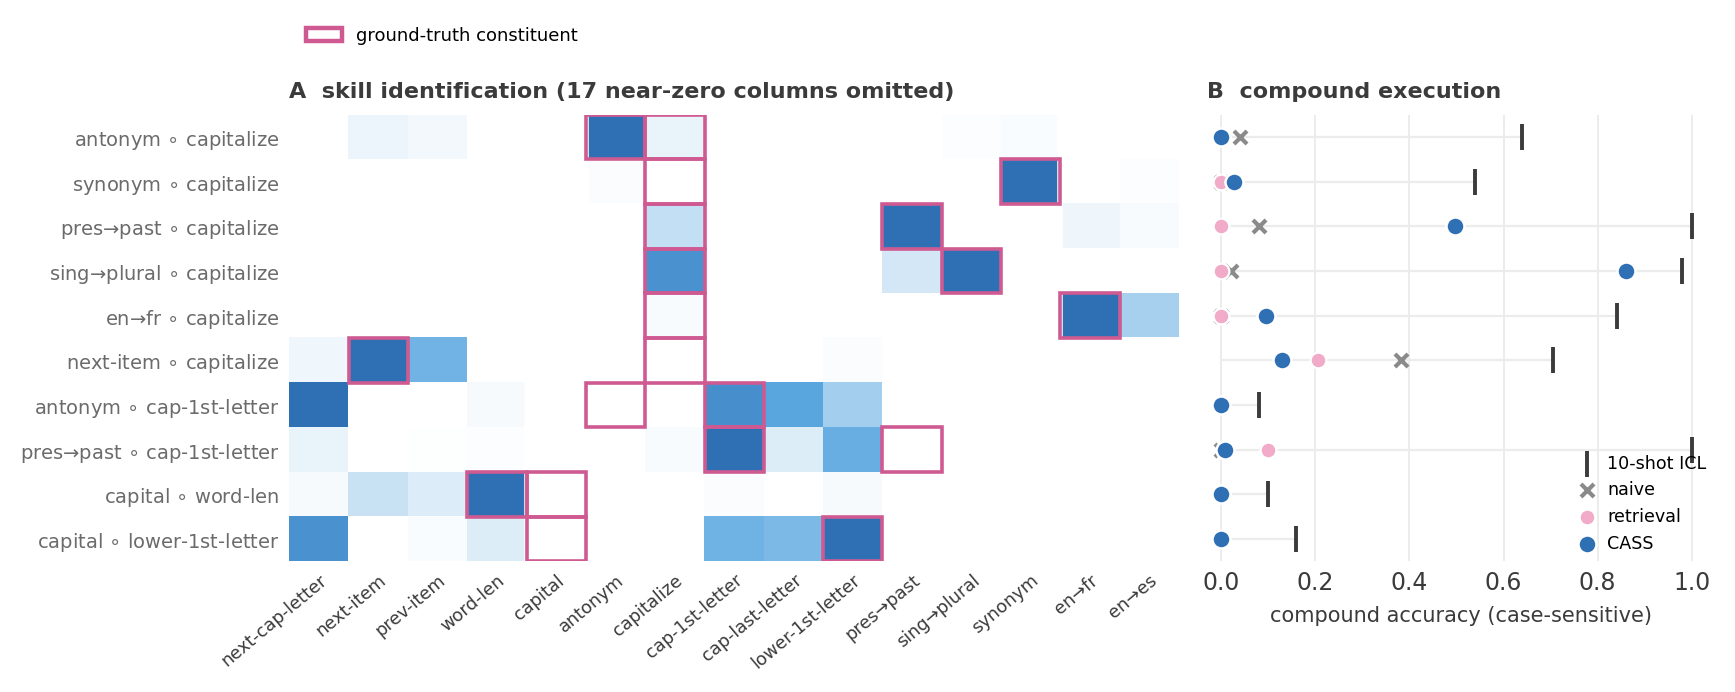
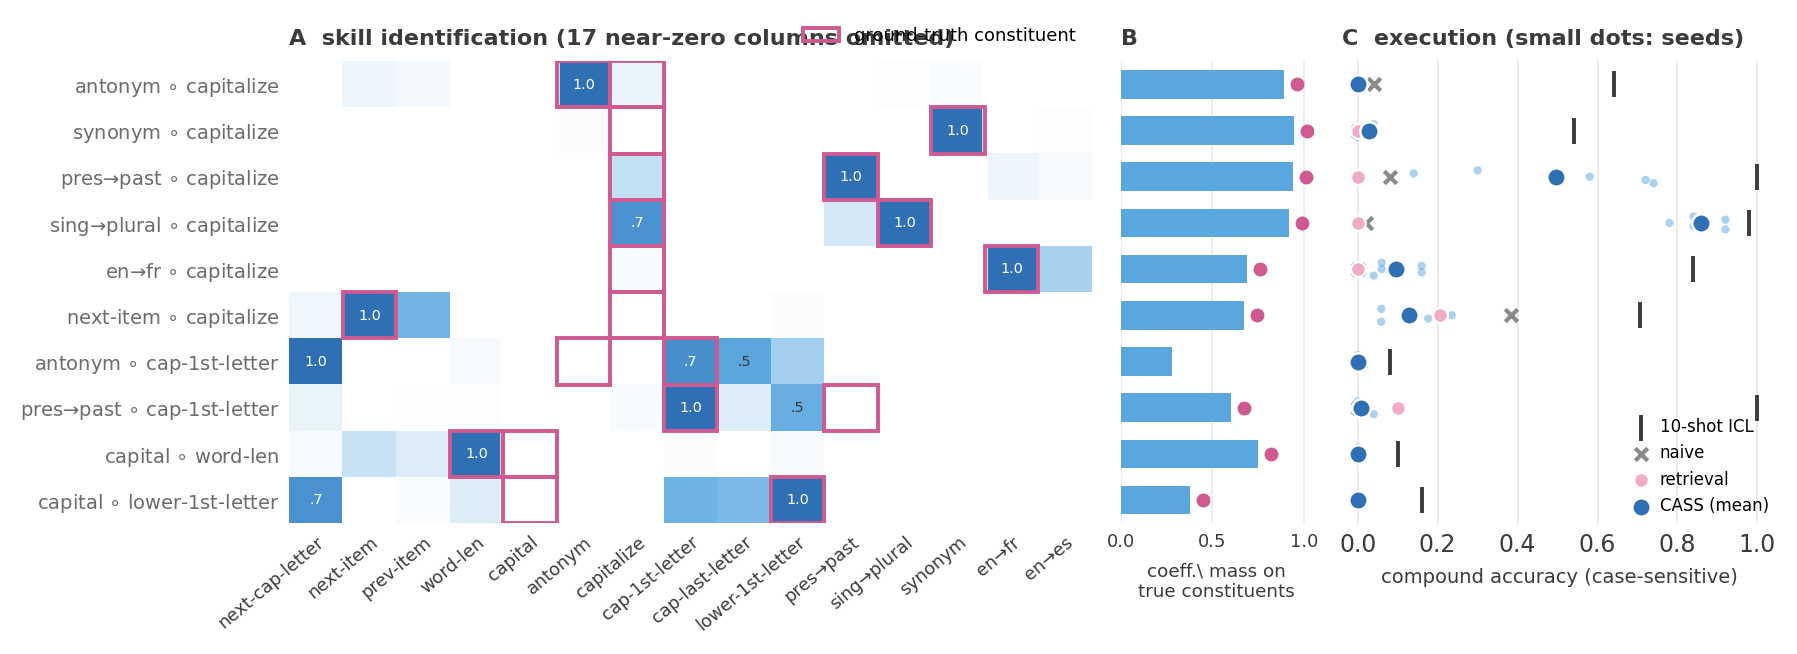
Tables/figures v6: full-width Table 1 (12 cols incl. adapt cost + capabilities), aligned two-column ablation grid (36 settings), E1 dumbbell+CI+forest composite, E2 heatmap+identification+per-seed execution

diff --git a/scripts/14_paper_figures.py b/scripts/14_paper_figures.py
@@ -89,18 +89,18 @@ def save(name):
     plt.close()
 
 
-# ---------------- Fig E1: composite (bullet + k-trend + family) ---------
+# ------------- Fig E1: dumbbell + k-trend + cross-model forest -------------
 R = pd.read_csv(out / "e1_summary.csv")
 R4 = R[R["k"] == 4].sort_values(["family", "task"]).reset_index(drop=True)
 e1 = pd.read_csv(out / "e1_loto.csv")
 bl = json.load(open(out / "baselines.json"))
 
-fig = plt.figure(figsize=(9.6, 3.7))
-gs = fig.add_gridspec(2, 2, width_ratios=[2.05, 1], hspace=0.52, wspace=0.2)
+fig = plt.figure(figsize=(9.6, 4.1))
+gs = fig.add_gridspec(2, 2, width_ratios=[2.1, 1], hspace=0.62, wspace=0.2)
 axA1 = fig.add_subplot(gs[0, 0])
 axA2 = fig.add_subplot(gs[1, 0])
 axB = fig.add_subplot(gs[0, 1])
-axC = fig.add_subplot(gs[1, 1])
+axD = fig.add_subplot(gs[1, 1])
 
 half = int(np.ceil(len(R4) / 2))
 for ax, chunk in zip([axA1, axA2], [R4.iloc[:half], R4.iloc[half:]]):
@@ -111,83 +111,92 @@ for ax, chunk in zip([axA1, axA2], [R4.iloc[:half], R4.iloc[half:]]):
     for i, f in enumerate(list(chunk["family"]) + [None]):
         if f != prev:
             if prev is not None:
-                ax.text((start + i - 1) / 2, 1.2, prev, ha="center",
+                ax.text((start + i - 1) / 2, 1.19, prev, ha="center",
                         va="top", fontsize=6.8, color=MUTED, style="italic")
                 if f is not None:
-                    ax.axvline(i - 0.5, color="#dddddd", lw=0.8, zorder=0)
+                    ax.axvline(i - 0.5, color="#e3e3e3", lw=0.8, zorder=0)
             prev, start = f, i
     for i, row in chunk.iterrows():
-        ax.bar(i, row["acc_oracle"], width=0.72, color=PINK, alpha=0.55,
-               edgecolor="none", zorder=1)
-        rounded_bar(ax, i, row["acc_syn"], 0.42, BLUE)
-        ax.plot([i - 0.4, i + 0.4], [row["acc_icl"]] * 2, color=INK,
-                lw=1.0, zorder=4)
+        lo, hi = sorted([row["acc_syn"], row["acc_oracle"]])
+        ax.plot([i, i], [lo, hi], color="#c4d8ea", lw=2.2, zorder=2,
+                solid_capstyle="round")
+        ax.plot(i, row["acc_oracle"], "o", color=PINK, markersize=6,
+                markeredgecolor="white", markeredgewidth=1.1, zorder=3)
+        ax.plot(i, row["acc_syn"], "o", color=DBLUE, markersize=6,
+                markeredgecolor="white", markeredgewidth=1.1, zorder=4)
+        ax.plot([i - 0.33, i + 0.33], [row["acc_icl"]] * 2, color=INK,
+                lw=1.0, zorder=3)
     ax.set_xticks(x)
     ax.set_xticklabels([short(t) for t in chunk["task"]], rotation=40,
                        fontsize=6.2, ha="right", rotation_mode="anchor")
-    ax.set_ylim(0, 1.2)
+    ax.set_ylim(-0.04, 1.2)
     ax.set_xlim(-0.7, half - 0.3)
     ax.set_yticks([0, 0.5, 1.0])
     ax.set_ylabel("accuracy", fontsize=7.5)
 handles = [
-    Rectangle((0, 0), 1, 1, fc=BLUE, ec="none"),
-    Rectangle((0, 0), 1, 1, fc=PINK, alpha=0.55, ec="none"),
+    Line2D([0], [0], marker="o", color=DBLUE, lw=0, markersize=6,
+           markeredgecolor="white"),
+    Line2D([0], [0], marker="o", color=PINK, lw=0, markersize=6,
+           markeredgecolor="white"),
     Line2D([0], [0], color=INK, lw=1.0),
 ]
 axA1.legend(handles, ["CASS (k=4)", "oracle", "10-shot ICL"],
-            ncol=3, loc="lower left", bbox_to_anchor=(0.42, 1.16),
+            ncol=3, loc="lower left", bbox_to_anchor=(0.47, 1.13),
             fontsize=7, handlelength=1.2, columnspacing=1.0)
 axA1.set_title("A  per-task accuracy", fontsize=8, loc="left",
-               color=INK, fontweight="bold", pad=16)
+               color=INK, fontweight="bold", pad=15)
 
-# panel B: median rho vs k for cass / zvec / recon
-def rho_by(mode, seeds):
+# B: median rho vs k with bootstrap CI band for CASS
+def rho_tasks(mode, k, seeds=3):
     orc = e1[e1["mode"] == "oracle"].set_index("task")["acc"]
-    sub = e1[(e1["mode"] == mode) & (e1["seed"] < seeds)]
-    med = {}
-    for k, grp in sub.groupby("k"):
-        acc = grp.groupby("task")["acc"].mean()
-        rhos = []
-        for t, a in acc.items():
-            zs = bl[t]["zs"]
-            if orc.get(t, 0) - zs > 0.05:
-                rhos.append((a - zs) / (orc[t] - zs))
-        med[k] = np.median(rhos)
-    return med
+    acc = e1[(e1["mode"] == mode) & (e1["seed"] < seeds) &
+             (e1["k"] == k)].groupby("task")["acc"].mean()
+    return np.array([(acc[t] - bl[t]["zs"]) / (orc[t] - bl[t]["zs"])
+                     for t in acc.index
+                     if orc.get(t, 0) - bl[t]["zs"] > 0.05])
 
+rngb = np.random.default_rng(0)
 for mode, col, lab in [("cass", DBLUE, "CASS"), ("zvec", MUTED, "$z$ only"),
                        ("cass_recon", DPINK, "reconstruction")]:
-    m = rho_by(mode, 3)
-    ks = sorted(m)
-    axB.plot(ks, [m[k] for k in ks], color=col, lw=2, marker="o",
-             markersize=5, markeredgecolor="white", markeredgewidth=1.1,
-             label=lab, solid_capstyle="round")
+    ks, med, lo, hi = [], [], [], []
+    for k in [1, 2, 4]:
+        r = rho_tasks(mode, k)
+        boots = [np.median(rngb.choice(r, len(r), True)) for _ in range(2000)]
+        ks.append(k); med.append(np.median(r))
+        lo.append(np.percentile(boots, 2.5)); hi.append(np.percentile(boots, 97.5))
+    if mode == "cass":
+        axB.fill_between(ks, lo, hi, color=BLUE, alpha=0.15, lw=0)
+    axB.plot(ks, med, color=col, lw=2, marker="o", markersize=5,
+             markeredgecolor="white", markeredgewidth=1.1, label=lab,
+             solid_capstyle="round")
 axB.grid(axis="y", zorder=0)
 axB.set_xticks([1, 2, 4])
 axB.set_xlabel("examples $k$", fontsize=7.5)
 axB.set_ylabel(r"median $\rho$", fontsize=7.5)
 axB.legend(fontsize=6.5, loc="center right", handlelength=1.4)
-axB.set_title("B  recovery vs. $k$", fontsize=8, loc="left", color=INK,
-              fontweight="bold")
+axB.set_title("B  recovery vs. $k$ (band: 95% CI)", fontsize=8, loc="left",
+              color=INK, fontweight="bold")
 
-# panel C: rho by family at k=4 (dot strip + median tick)
-fams = sorted(R4["family"].unique())
-rngj = np.random.default_rng(1)
-Rv = R4.dropna(subset=["rho"])
-for fi, f in enumerate(fams):
-    v = Rv[Rv["family"] == f]["rho"].clip(0, 1.6)
-    axC.scatter(v, fi + rngj.uniform(-0.08, 0.08, len(v)), s=16, color=BLUE,
-                alpha=0.75, edgecolor="white", linewidth=0.7, zorder=2)
-    axC.plot([v.median()] * 2, [fi - 0.26, fi + 0.26], color=DPINK, lw=2.2,
-             zorder=3, solid_capstyle="round")
-axC.axvline(1.0, color="#cccccc", lw=0.8, ls=(0, (3, 3)), zorder=1)
-axC.text(1.0, -0.72, "oracle", fontsize=6, color=MUTED, ha="center")
-axC.set_yticks(range(len(fams)))
-axC.set_yticklabels(fams, fontsize=7)
-axC.set_xlabel(r"oracle recovery $\rho$  ($k{=}4$)", fontsize=7.5)
-axC.grid(axis="x", zorder=0)
-axC.set_title("C  recovery by family", fontsize=8, loc="left", color=INK,
-              fontweight="bold")
+# D: forest plot of dictionary gain across models
+models = [("Llama-3.1-8B", 4.9, 1.4, 8.6), ("Llama-3.2-3B", 6.0, 2.9, 9.5),
+          ("Gemma-2-2B", 4.2, 2.0, 6.7), ("Qwen2.5-3B", 1.4, 0.2, 2.8)]
+for yi, (name, mgain, lo, hi) in enumerate(models):
+    axD.plot([lo, hi], [yi, yi], color=BLUE, lw=2.2, zorder=2,
+             solid_capstyle="round")
+    axD.plot(mgain, yi, "D", color=DBLUE, markersize=6.5,
+             markeredgecolor="white", markeredgewidth=1.1, zorder=3)
+    axD.text(hi + 0.35, yi, f"+{mgain:.1f}", fontsize=7, color=DBLUE,
+             va="center")
+axD.axvline(0, color=DPINK, lw=1.1, ls=(0, (4, 3)), zorder=1)
+axD.set_yticks(range(len(models)))
+axD.set_yticklabels([m[0] for m in models], fontsize=7)
+axD.set_xlabel("dictionary gain over $z$-only (acc. pts, 95% CI)",
+               fontsize=7.5)
+axD.set_xlim(-1.2, 11.5)
+axD.invert_yaxis()
+axD.grid(axis="x", zorder=0)
+axD.set_title("C  dictionary gain across models", fontsize=8, loc="left",
+              color=INK, fontweight="bold")
 save("e1_main")
 
 # ---------------- Fig E5: scale curve ----------------
@@ -248,7 +257,7 @@ ax.set_xlabel(r"coding residual $\varepsilon$ (terciles)")
 ax.set_xlim(-0.5, 2.75)
 save("e1_eps_vs_rho")
 
-# ---------------- Fig E2: heatmap + execution panel ----------------
+# -------- Fig E2: heatmap + identification quality + execution ----------
 cm = json.load(open(out / "e2_coeff_matrix.json"))
 compounds = list(cm)
 tasks_all = sorted(ALL_TASKS, key=lambda t: (TASK_REGISTRY[t][1], t))
@@ -267,10 +276,11 @@ agg = e2.groupby("compound").agg(cass=("acc_cass", "mean"),
                                  naive=("acc_naive", "mean"),
                                  icl=("acc_icl", "first"))
 
-fig = plt.figure(figsize=(9.2, 2.9))
-gs = fig.add_gridspec(1, 2, width_ratios=[1.75, 1], wspace=0.04)
+fig = plt.figure(figsize=(9.6, 3.0))
+gs = fig.add_gridspec(1, 3, width_ratios=[1.75, 0.42, 0.95], wspace=0.06)
 axH = fig.add_subplot(gs[0])
-axE = fig.add_subplot(gs[1], sharey=axH)
+axI = fig.add_subplot(gs[1], sharey=axH)
+axE = fig.add_subplot(gs[2], sharey=axH)
 
 axH.imshow(Mx, cmap=SEQ, aspect="auto", vmin=0, vmax=1)
 for i, c in enumerate(compounds):
@@ -278,7 +288,12 @@ for i, c in enumerate(compounds):
         if comp in tasks:
             j = tasks.index(comp)
             axH.add_patch(Rectangle((j - 0.5, i - 0.5), 1, 1, fill=False,
-                                    edgecolor=DPINK, lw=1.3, zorder=4))
+                                    edgecolor=DPINK, lw=1.4, zorder=4))
+    for j in range(len(tasks)):
+        if Mx[i, j] >= 0.45:
+            axH.text(j, i, f"{Mx[i, j]:.1f}".lstrip("0"), ha="center",
+                     va="center", fontsize=5.2,
+                     color="white" if Mx[i, j] > 0.65 else INK)
 axH.set_xticks(range(len(tasks)))
 axH.set_xticklabels([short(t) for t in tasks], rotation=40, fontsize=6.4,
                     ha="right", rotation_mode="anchor")
@@ -291,35 +306,55 @@ for j, t in enumerate(tasks):
     if f != prev and prev is not None:
         axH.axvline(j - 0.5, color="white", lw=2)
     prev = f
-axH.set_title(f"A  skill identification ({n_dropped} near-zero columns omitted)", fontsize=8, loc="left", color=INK,
+axH.set_title(f"A  skill identification ({n_dropped} near-zero columns "
+              "omitted)", fontsize=8, loc="left", color=INK,
               fontweight="bold")
+handles = [Rectangle((0, 0), 1, 1, fill=False, edgecolor=DPINK, lw=1.4)]
+axH.legend(handles, ["ground-truth constituent"], loc="lower right",
+           bbox_to_anchor=(1.0, 1.0), fontsize=6.5)
 
-# execution panel: per-compound accuracy, shared rows
+# B: identification quality = coefficient mass on true constituents
 y = np.arange(len(compounds))
+mass = []
+for c in compounds:
+    comps = compound_components(c)
+    tot = sum(cm[c].values()) + 1e-12
+    mass.append(sum(cm[c].get(x, 0) for x in comps) / tot)
+top1 = [max(cm[c], key=cm[c].get) in compound_components(c)
+        for c in compounds]
+axI.barh(y, mass, height=0.62, color=BLUE, edgecolor="none", zorder=2)
+for yi, (m, t1) in enumerate(zip(mass, top1)):
+    if t1:
+        axI.plot(m + 0.07, yi, "o", color=DPINK, markersize=4, zorder=3)
+axI.set_xlim(0, 1.05)
+axI.set_xticks([0, 0.5, 1])
+axI.tick_params(labelleft=False, labelsize=6.5)
+axI.grid(axis="x", zorder=0)
+axI.set_xlabel("coeff.\ mass on\ntrue constituents", fontsize=6.6)
+axI.set_title("B", fontsize=8, loc="left", color=INK, fontweight="bold")
+
+# C: execution with per-seed distribution
 for i, c in enumerate(compounds):
-    a = agg.loc[c]
-    axE.plot([0, max(a["icl"], a["cass"], a["retr"], a["naive"])],
-             [i, i], color=GRID, lw=0.8, zorder=1)
+    seeds = e2[e2["compound"] == c]["acc_cass"].values
+    axE.scatter(seeds, np.full(len(seeds), i) +
+                np.linspace(-0.14, 0.14, len(seeds)), s=9, color=BLUE,
+                alpha=0.5, edgecolor="none", zorder=2)
 axE.scatter(agg.loc[compounds, "icl"], y, marker="|", s=90, color=INK,
             lw=1.4, label="10-shot ICL", zorder=3)
-axE.scatter(agg.loc[compounds, "naive"], y, marker="x", s=22, color=MUTED,
+axE.scatter(agg.loc[compounds, "naive"], y, marker="x", s=20, color=MUTED,
             label="naive", zorder=3)
-axE.scatter(agg.loc[compounds, "retr"], y, s=32, color=PINK,
+axE.scatter(agg.loc[compounds, "retr"], y, s=28, color=PINK,
             edgecolor="white", linewidth=0.8, label="retrieval", zorder=4)
-axE.scatter(agg.loc[compounds, "cass"], y, s=42, color=DBLUE,
-            edgecolor="white", linewidth=0.9, label="CASS", zorder=5)
+axE.scatter(agg.loc[compounds, "cass"], y, s=44, color=DBLUE,
+            edgecolor="white", linewidth=0.9, label="CASS (mean)", zorder=5)
 axE.tick_params(labelleft=False)
-axE.set_xlim(-0.03, 1.05)
-axE.set_xlabel("compound accuracy (case-sensitive)", fontsize=7.5)
+axE.set_xlim(-0.04, 1.05)
+axE.set_xlabel("compound accuracy (case-sensitive)", fontsize=7)
 axE.grid(axis="x", zorder=0)
-axE.legend(fontsize=6.3, loc="lower right", handletextpad=0.15,
+axE.legend(fontsize=6, loc="lower right", handletextpad=0.15,
            borderaxespad=0.1)
-axE.set_title("B  compound execution", fontsize=8, loc="left", color=INK,
-              fontweight="bold")
-axE.invert_yaxis() if False else None
-handles = [Rectangle((0, 0), 1, 1, fill=False, edgecolor=DPINK, lw=1.6)]
-axH.legend(handles, ["ground-truth constituent"], loc="lower left",
-           bbox_to_anchor=(0.0, 1.12), fontsize=6.5)
+axE.set_title("C  execution (small dots: seeds)", fontsize=8, loc="left",
+              color=INK, fontweight="bold")
 save("e2_heatmap")
 
 # ---------------- Fig cosine matrices (H1) ----------------